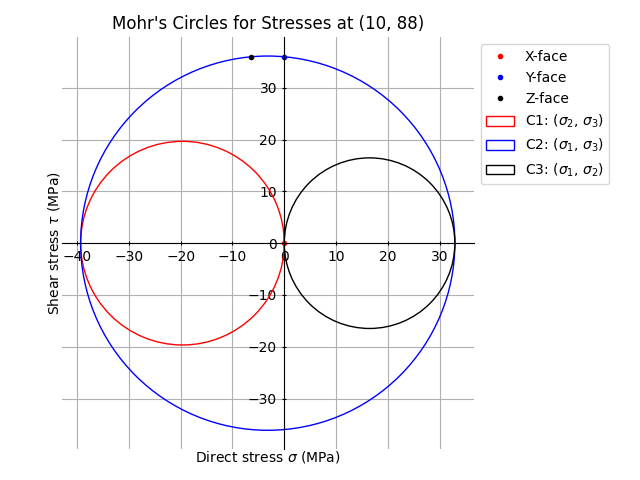
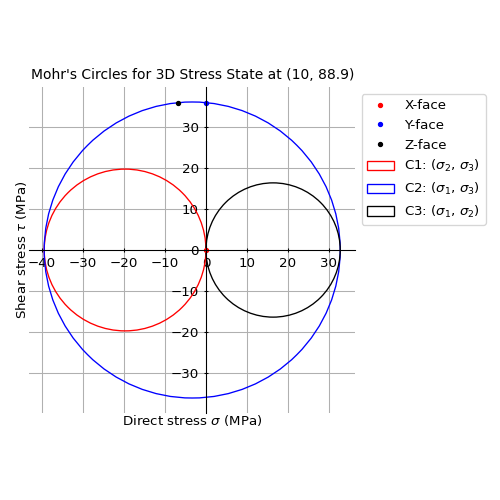
Add Mohrs to V2

diff --git a/sectionproperties/analysis/cross_section.py b/sectionproperties/analysis/cross_section.py
@@ -3840,30 +3840,30 @@ class StressPost:
         * :math:`V_{x} = 10` kN
         * :math:`V_{y} = 5` kN
         
-        at the point (10,88)
+        at the point (10,88.9)
 
         ::
 
             import sectionproperties.pre.sections as sections
-            from sectionproperties.analysis.cross_section import CrossSection
+            from sectionproperties.analysis.cross_section import Section
 
-            geometry = sections.AngleSection(d=150, b=90, t=12, r_r=10, r_t=5, n_r=8)
+            geometry = sections.angle_section(d=150, b=90, t=12, r_r=10, r_t=5, n_r=8)
             mesh = geometry.create_mesh(mesh_sizes=[2.5])
-            section = CrossSection(geometry, mesh)
+            section = Section(geometry, mesh)
 
             section.calculate_geometric_properties()
             section.calculate_warping_properties()
             stress_post = section.calculate_stress(
                 N=50e3, Mxx=-5e6, M22=2.5e6, Mzz=0.5e6, Vx=10e3, Vy=5e3
             )
-
-            stress_post.plot_mohrs_circles(10,88)
+            
+            stress_post.plot_mohrs_circles(10,88.9)
 
         ..  figure:: ../images/stress/mohrs_circles.png
             :align: center
             :scale: 75 %
 
-            Mohr's Circles of the 3D stress state at (10,88).
+            Mohr's Circles of the 3D stress state at (10,88.9).
         
         """
         
